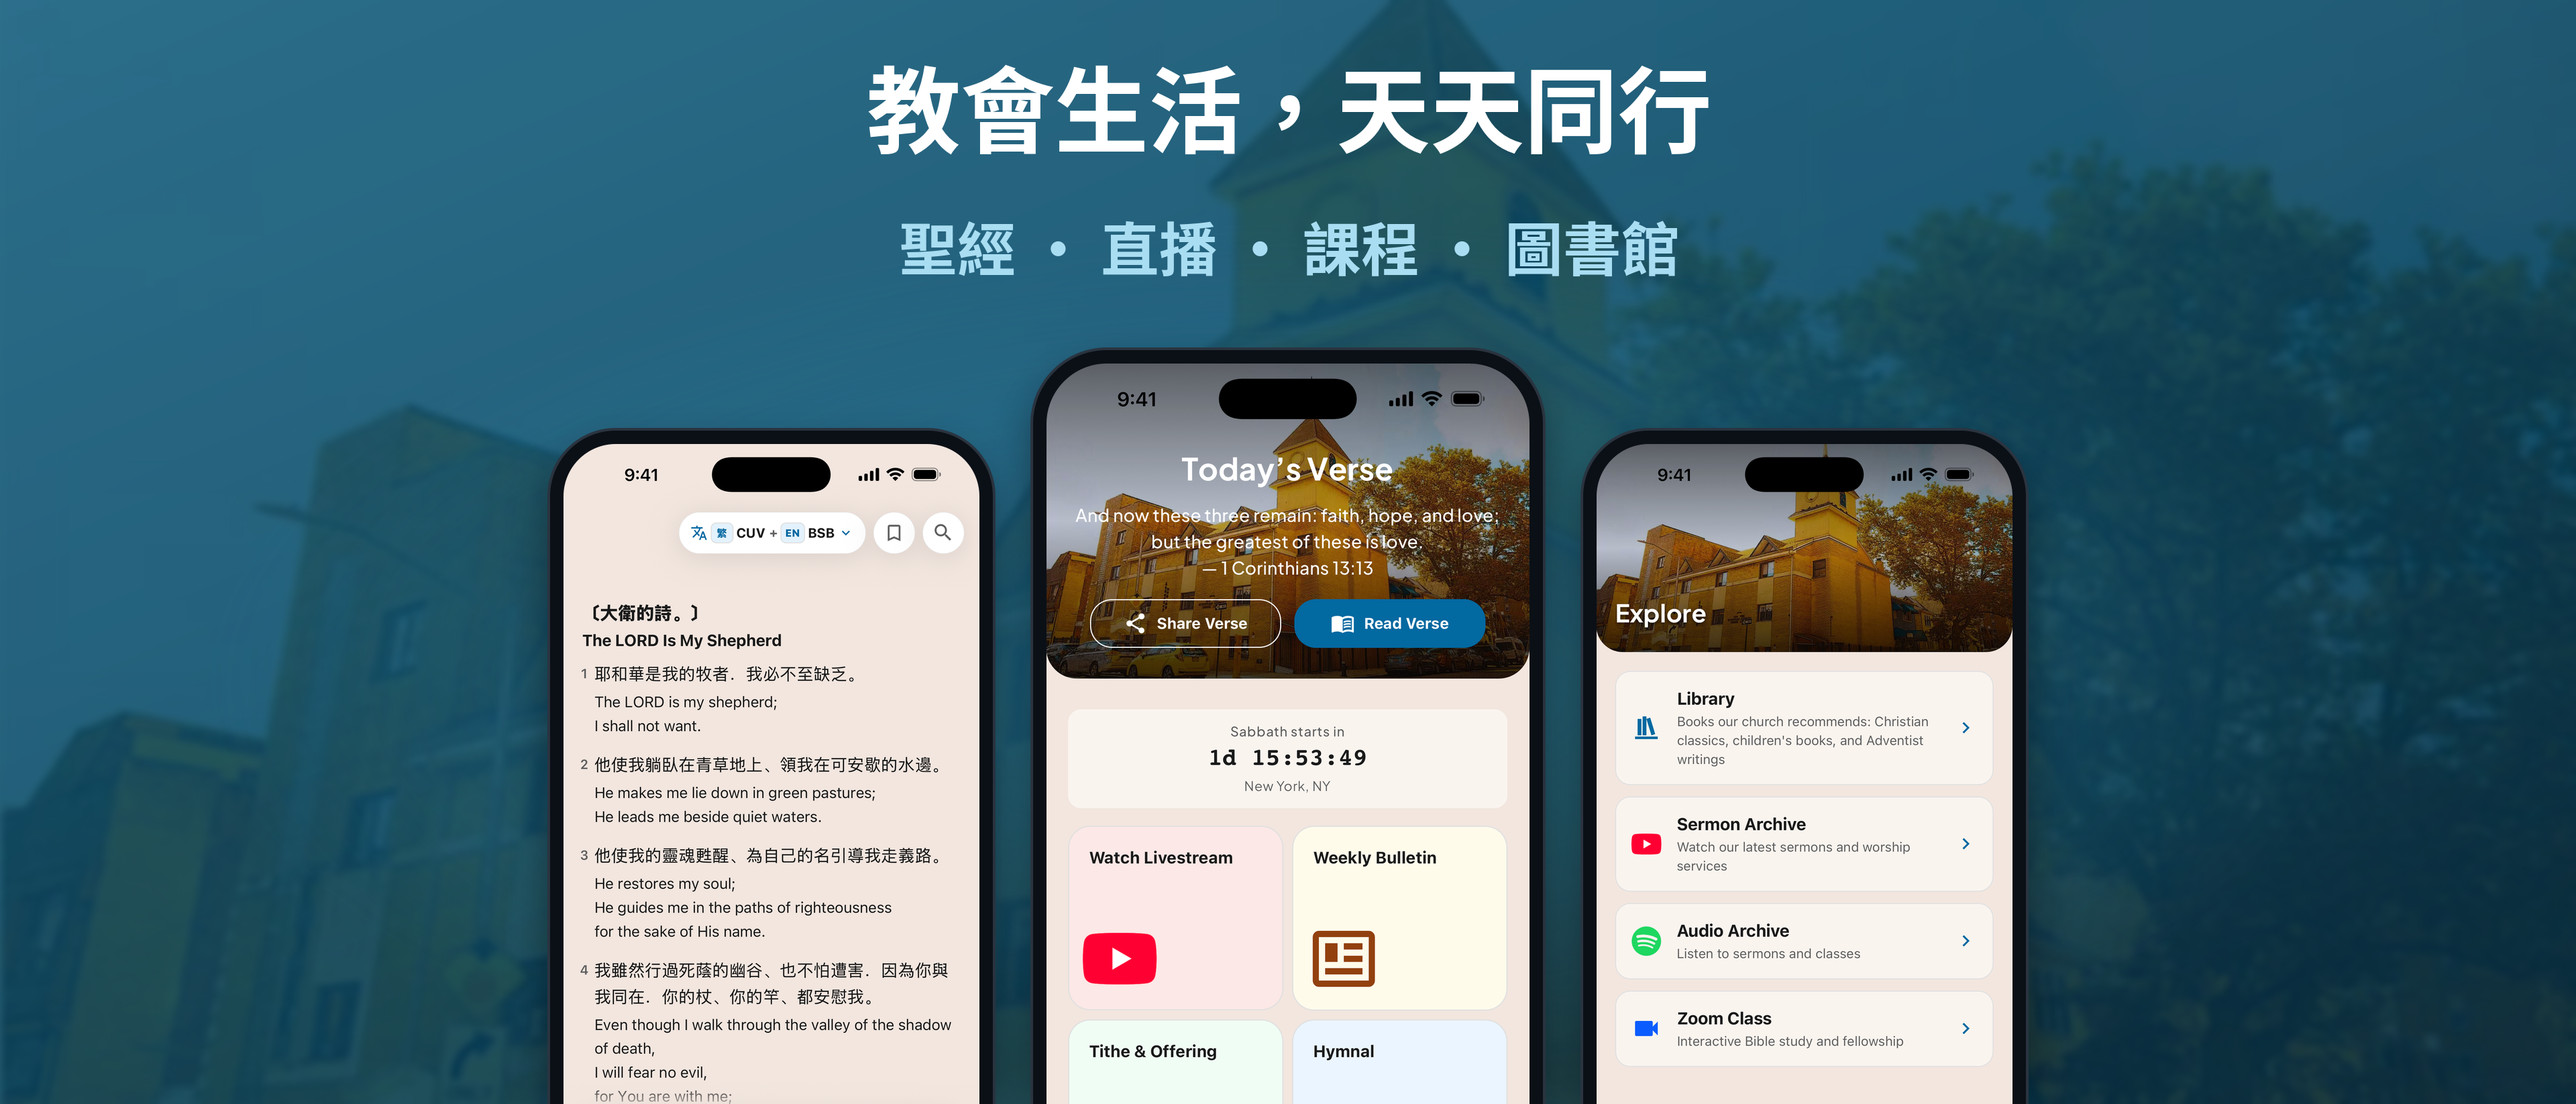
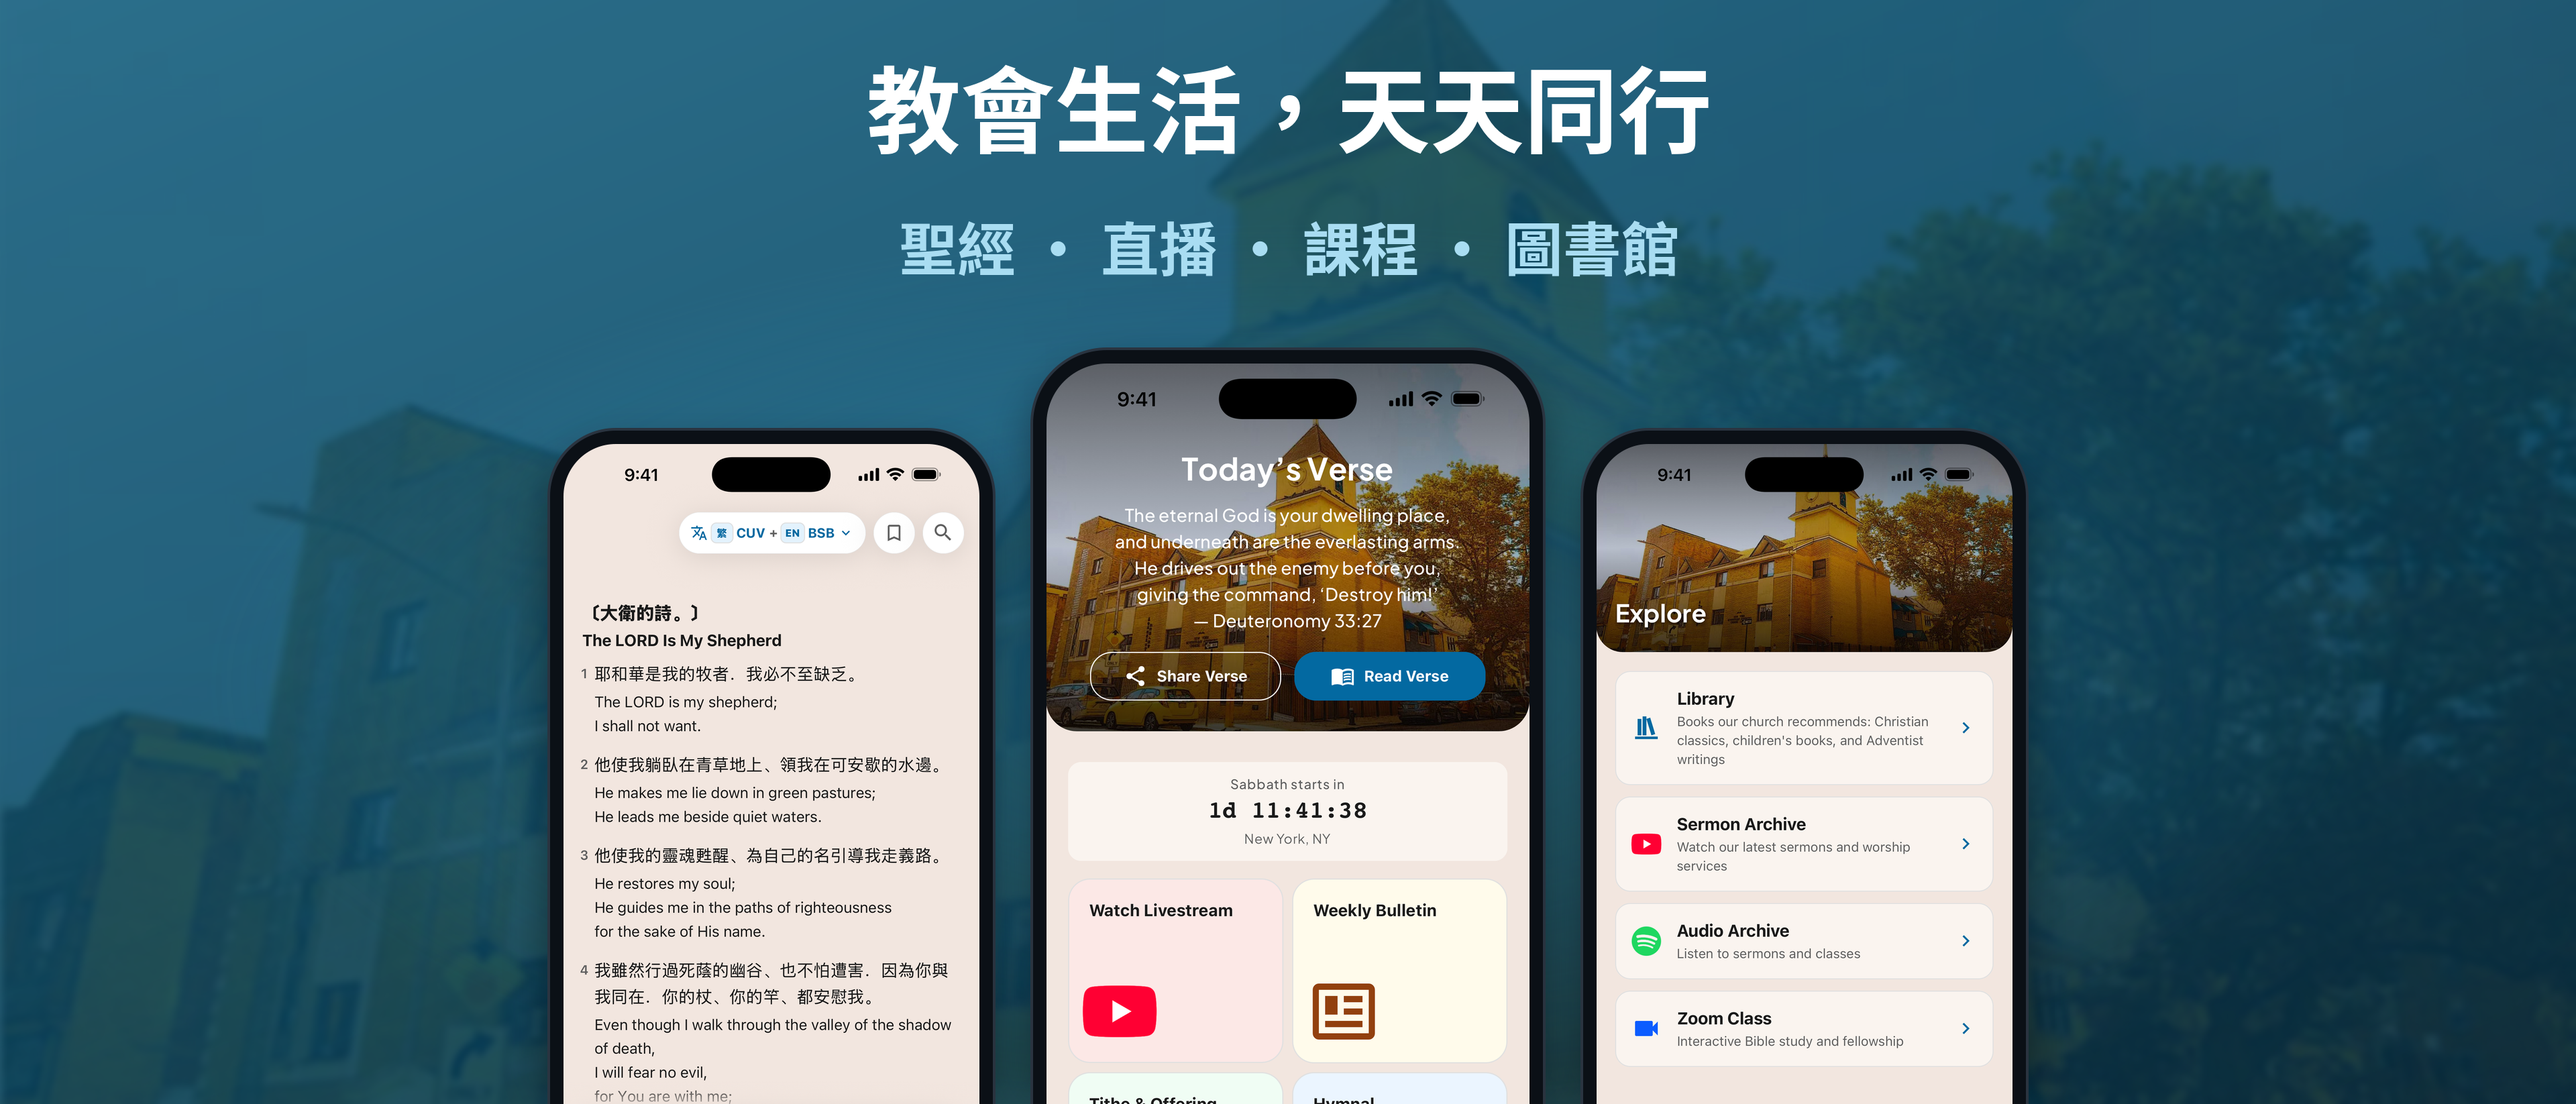
Refresh the store screenshots, headers and feature graphic for the card's colours
From the runs of this branch: the Bible card's pills and the translation
button's names in blue or gold, on iPhone, the 13-inch iPad, and Google
Play.

diff --git a/docs/store-assets/README.md b/docs/store-assets/README.md
@@ -55,9 +55,10 @@ are captured, their sizes, and what they may show are in
 The Play app icon is `public/icon-512x512.png`, so it isn't copied here. The screenshots
 and headers here are from the key-screen runs for 1.7.0 on November 5, 2026, the first
 with the floating tab bar and Bible card on every system (#589), white or night blue
-for older eyes, and Home's three-line countdown:
-[iOS](https://github.com/CodeSammich/sda-church-app/actions/runs/41973719090) and
-[Android](https://github.com/CodeSammich/sda-church-app/actions/runs/41973721946). The
+for older eyes, the card's pills in the selected tab's blue or gold, and Home's
+three-line countdown:
+[iOS](https://github.com/CodeSammich/sda-church-app/actions/runs/42003610581) and
+[Android](https://github.com/CodeSammich/sda-church-app/actions/runs/42003614621). The
 feature graphic was built from the Google Play ones.
 
 Each run also saves numbered App Store copies in its screenshots download's
